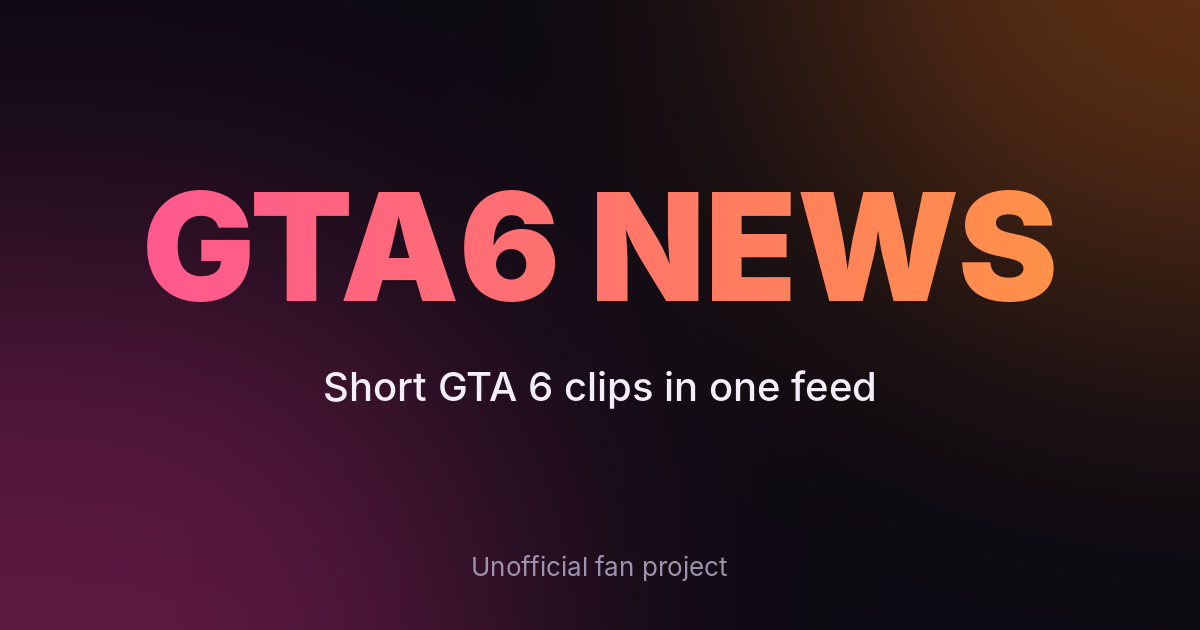
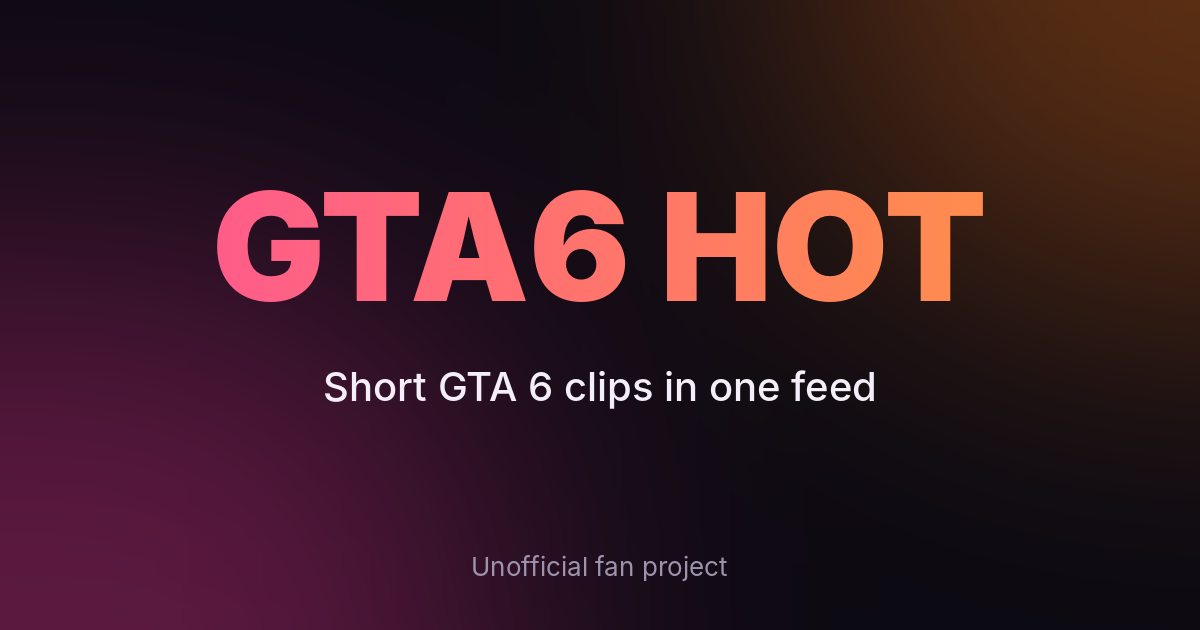
Rename the site to GTA6 HOT and set the contact
Claude-Session: https://claude.ai/code/session_01LneJC6ChVCz5LB6QQv3my5

Changed region(s): [[0.1233, 0.3016, 0.8942, 0.4825]]

diff --git a/docs/index.html b/docs/index.html
@@ -3,14 +3,14 @@
 <head>
 <meta charset="utf-8">
 <meta name="viewport" content="width=device-width, initial-scale=1, viewport-fit=cover">
-<title>GTA6 NEWS</title>
+<title>GTA6 HOT</title>
 <meta name="description" content="The funniest GTA 6 clips from YouTube, TikTok and Instagram in one feed. Unofficial fan project.">
 <meta name="theme-color" content="#0c0a12">
 <!-- Превью при пересылке ссылки на сайт. Адрес прописан вручную: при смене домена обновить
      здесь и в config.py (SITE_URL), за совпадением следит тест. -->
 <meta property="og:type" content="website">
-<meta property="og:site_name" content="GTA6 NEWS">
-<meta property="og:title" content="GTA6 NEWS: short GTA 6 clips in one feed">
+<meta property="og:site_name" content="GTA6 HOT">
+<meta property="og:title" content="GTA6 HOT: short GTA 6 clips in one feed">
 <meta property="og:description" content="The funniest GTA 6 clips from YouTube, TikTok and Instagram. Unofficial fan project.">
 <meta property="og:url" content="https://gta6hot.com/">
 <meta property="og:image" content="https://gta6hot.com/og.png">
@@ -135,7 +135,7 @@
 </head>
 <body>
 <header>
-  <h1 id="site-title">GTA6 NEWS</h1>
+  <h1 id="site-title">GTA6 HOT</h1>
   <div class="chips" id="chips" role="group" aria-label="Filter by platform">
     <button class="chip" data-p="all" aria-pressed="true">All</button>
     <button class="chip" data-p="yt" aria-pressed="false">YouTube</button>

diff --git a/docs/privacy.html b/docs/privacy.html
@@ -3,7 +3,7 @@
 <head>
 <meta charset="utf-8">
 <meta name="viewport" content="width=device-width, initial-scale=1">
-<title>Privacy &amp; cookies | GTA6 NEWS</title>
+<title>Privacy &amp; cookies | GTA6 HOT</title>
 <meta name="robots" content="noindex">
 <style>
   body { margin: 0; background: #0c0a12; color: #f3eef8; font: 16px/1.6 system-ui, -apple-system, "Segoe UI", Roboto, sans-serif; }
@@ -70,8 +70,8 @@
 
   <h2>Removal requests and contact</h2>
   <p>If you are the author of a clip and want it removed from the feed, or you have a privacy
-     question, contact us through our Telegram channel:
-     <a href="https://t.me/gta6hotreels" rel="noopener">t.me/gta6hotreels</a>.</p>
+     question, contact us on Telegram:
+     <a href="https://t.me/darklion84" rel="noopener">@darklion84</a>.</p>
 </main>
 <script>
 (function () {

diff --git a/config.py b/config.py
@@ -5,7 +5,7 @@
 """
 
 # --- Сайт и канал -----------------------------------------------------------
-SITE_TITLE = "GTA6 NEWS"
+SITE_TITLE = "GTA6 HOT"
 SITE_TAGLINE = "The funniest GTA 6 clips in one feed. Unofficial fan project."
 SITE_URL = "https://gta6hot.com/"   # со слэшем в конце; тот же адрес прописан в мета-тегах docs/index.html
 TELEGRAM_URL = "https://t.me/gta6hotreels"

diff --git a/README.md b/README.md
@@ -1,4 +1,4 @@
-# GTA6 NEWS: лента коротких роликов
+# GTA6 HOT: лента коротких роликов (gta6hot.com)
 
 Автоматический агрегатор коротких роликов из GTA 6. Ничего не скачивает и не
 перезаливает: хранит только ссылки и показывает ролики через официальные плееры
